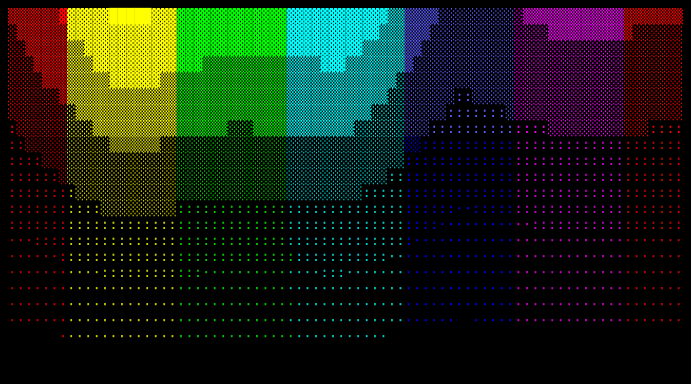
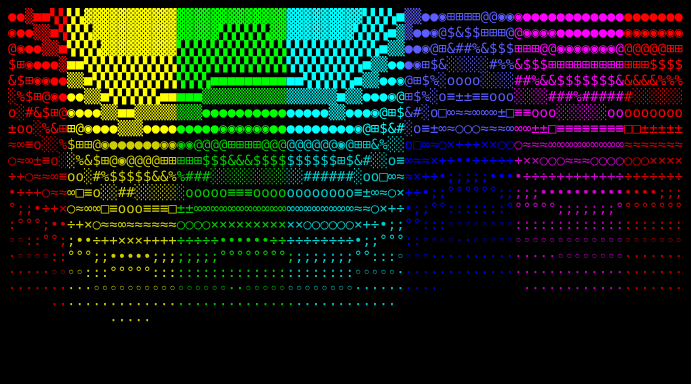
Use a longer, coverage-ordered Unicode ramp
The Unicode ramp had only 7 symbols, fewer than ASCII. It now has 31
symbols ordered by measured ink coverage, and brightness is matched to
coverage in linear light so the symbols spread over the whole range.

Claude-Session: https://claude.ai/code/session_015uFG4zLqyfQiVhUZW7DuoU

diff --git a/src/ascacia/charsets.py b/src/ascacia/charsets.py
@@ -1,5 +1,6 @@
 import sys
 from dataclasses import dataclass
+from functools import cached_property
 from typing import TextIO
 
 
@@ -7,24 +8,59 @@ from typing import TextIO
 class Charset:
     """Symbols used to draw an image.
 
-    ``ramp`` goes from the emptiest to the densest symbol. ``edges`` holds the
-    horizontal, rising, vertical and falling line symbols; leave it empty to
-    draw with the ramp only.
+    ``ramp`` goes from the emptiest to the densest symbol. ``levels`` optionally gives
+    each symbol's ink coverage from 0 to 1; without it the symbols are treated as evenly
+    spaced. ``edges`` holds the horizontal, rising, vertical and falling line symbols;
+    leave it empty to draw with the ramp only.
     """
 
     ramp: str
     edges: str = ""
     unicode: bool = False
+    levels: tuple[float, ...] | None = None
 
     def __post_init__(self):
         if len(self.ramp) < 2:
             raise ValueError("ramp needs at least two symbols")
         if self.edges and len(self.edges) != 4:
             raise ValueError("edges must have exactly four symbols: - / | \\")
+        if self.levels is not None and len(self.levels) != len(self.ramp):
+            raise ValueError("levels must have one value per ramp symbol")
+
+    def symbol(self, brightness: float) -> str:
+        """Symbol for a brightness from 0 to 255."""
+        return self._lookup[min(max(round(brightness), 0), 255)]
+
+    @cached_property
+    def _lookup(self) -> str:
+        if self.levels is None:
+            top = len(self.ramp) - 1
+            return "".join(self.ramp[round(value / 255 * top)] for value in range(256))
+        # Coverage mixes light linearly while brightness is gamma encoded, so compare
+        # in linear light; this spreads the many sparse glyphs over the darker half.
+        symbols = []
+        for value in range(256):
+            target = (value / 255) ** 2.2
+            nearest = min(range(len(self.levels)), key=lambda i: abs(self.levels[i] - target))
+            symbols.append(self.ramp[nearest])
+        return "".join(symbols)
 
 
 ASCII = Charset(ramp=" .:;+=*#%@", edges="-/|\\")
-UNICODE = Charset(ramp=" ·:░▒▓█", edges="─╱│╲", unicode=True)
+# Coverage measured by rendering each glyph in DejaVu Sans Mono, Liberation Mono and
+# JetBrains Mono and averaging; real terminal fonts differ a little.
+# fmt: off
+UNICODE = Charset(
+    ramp=" ·◦:°;•÷+×○≈∞±□≡o░#%&$⊞@◉●▒■▚▓█",
+    levels=(
+        0.0, 0.027, 0.035, 0.051, 0.058, 0.07, 0.081, 0.087, 0.098, 0.102, 0.112,
+        0.119, 0.138, 0.142, 0.148, 0.154, 0.164, 0.187, 0.202, 0.209, 0.22, 0.232,
+        0.251, 0.277, 0.291, 0.331, 0.416, 0.438, 0.506, 0.767, 1.0,
+    ),
+    edges="─╱│╲",
+    unicode=True,
+)
+# fmt: on
 
 CHARSETS = {"ascii": ASCII, "unicode": UNICODE}
 

diff --git a/tests/test_convert.py b/tests/test_convert.py
@@ -70,6 +70,26 @@ def test_contours_are_drawn_with_matching_line_symbols(start, end, symbol):
     assert edge_symbols == {symbol}
 
 
+def gradient_symbols(charset):
+    image = Image.linear_gradient("L").rotate(90).convert("RGB")  # dark left, bright right
+    edgeless = Charset(ramp=charset.ramp, levels=charset.levels)
+    return image_to_cells(image, 256, 1, edgeless)[0]
+
+
+@pytest.mark.parametrize("charset", [ASCII, UNICODE])
+def test_brighter_cells_never_get_emptier_symbols(charset):
+    ranks = [charset.ramp.index(cell.char) for cell in gradient_symbols(charset)]
+
+    assert ranks == sorted(ranks)
+
+
+def test_unicode_shows_more_shades_than_ascii():
+    ascii_shades = {cell.char for cell in gradient_symbols(ASCII)}
+    unicode_shades = {cell.char for cell in gradient_symbols(UNICODE)}
+
+    assert len(unicode_shades) > 2 * len(ascii_shades)
+
+
 def test_edges_can_be_disabled():
     cells = image_to_cells(line_image((5, 50), (195, 50)), 20, 10, Charset(ramp=" #"))
 

diff --git a/src/ascacia/convert.py b/src/ascacia/convert.py
@@ -77,8 +77,6 @@ def image_to_cells(
     data = rgb.resize((cols, rows), Image.Resampling.BOX).tobytes()
     averages = [tuple(data[i : i + 3]) for i in range(0, len(data), 3)]
     edges = _edge_symbols(rgb, cols, rows, charset.edges, edge_threshold)
-    ramp = charset.ramp
-    top = len(ramp) - 1
 
     cells = []
     for i, rgb_average in enumerate(averages):
@@ -90,7 +88,7 @@ def image_to_cells(
             source = max([rgb_average] + [averages[j] for j in neighbours], key=_brightness)
             cells.append(Cell(symbol, nearest_color(source, colors)))
         else:
-            symbol = ramp[round(_brightness(rgb_average) / 255 * top)]
+            symbol = charset.symbol(_brightness(rgb_average))
             cells.append(Cell(symbol, nearest_color(rgb_average, colors)))
     return [cells[y * cols : (y + 1) * cols] for y in range(rows)]
 

diff --git a/src/ascacia/cli.py b/src/ascacia/cli.py
@@ -48,6 +48,7 @@ def _charset(args: argparse.Namespace) -> Charset:
         ramp=args.ramp or charset.ramp,
         edges="" if args.no_edges else charset.edges,
         unicode=charset.unicode,
+        levels=None if args.ramp else charset.levels,
     )
 
 
